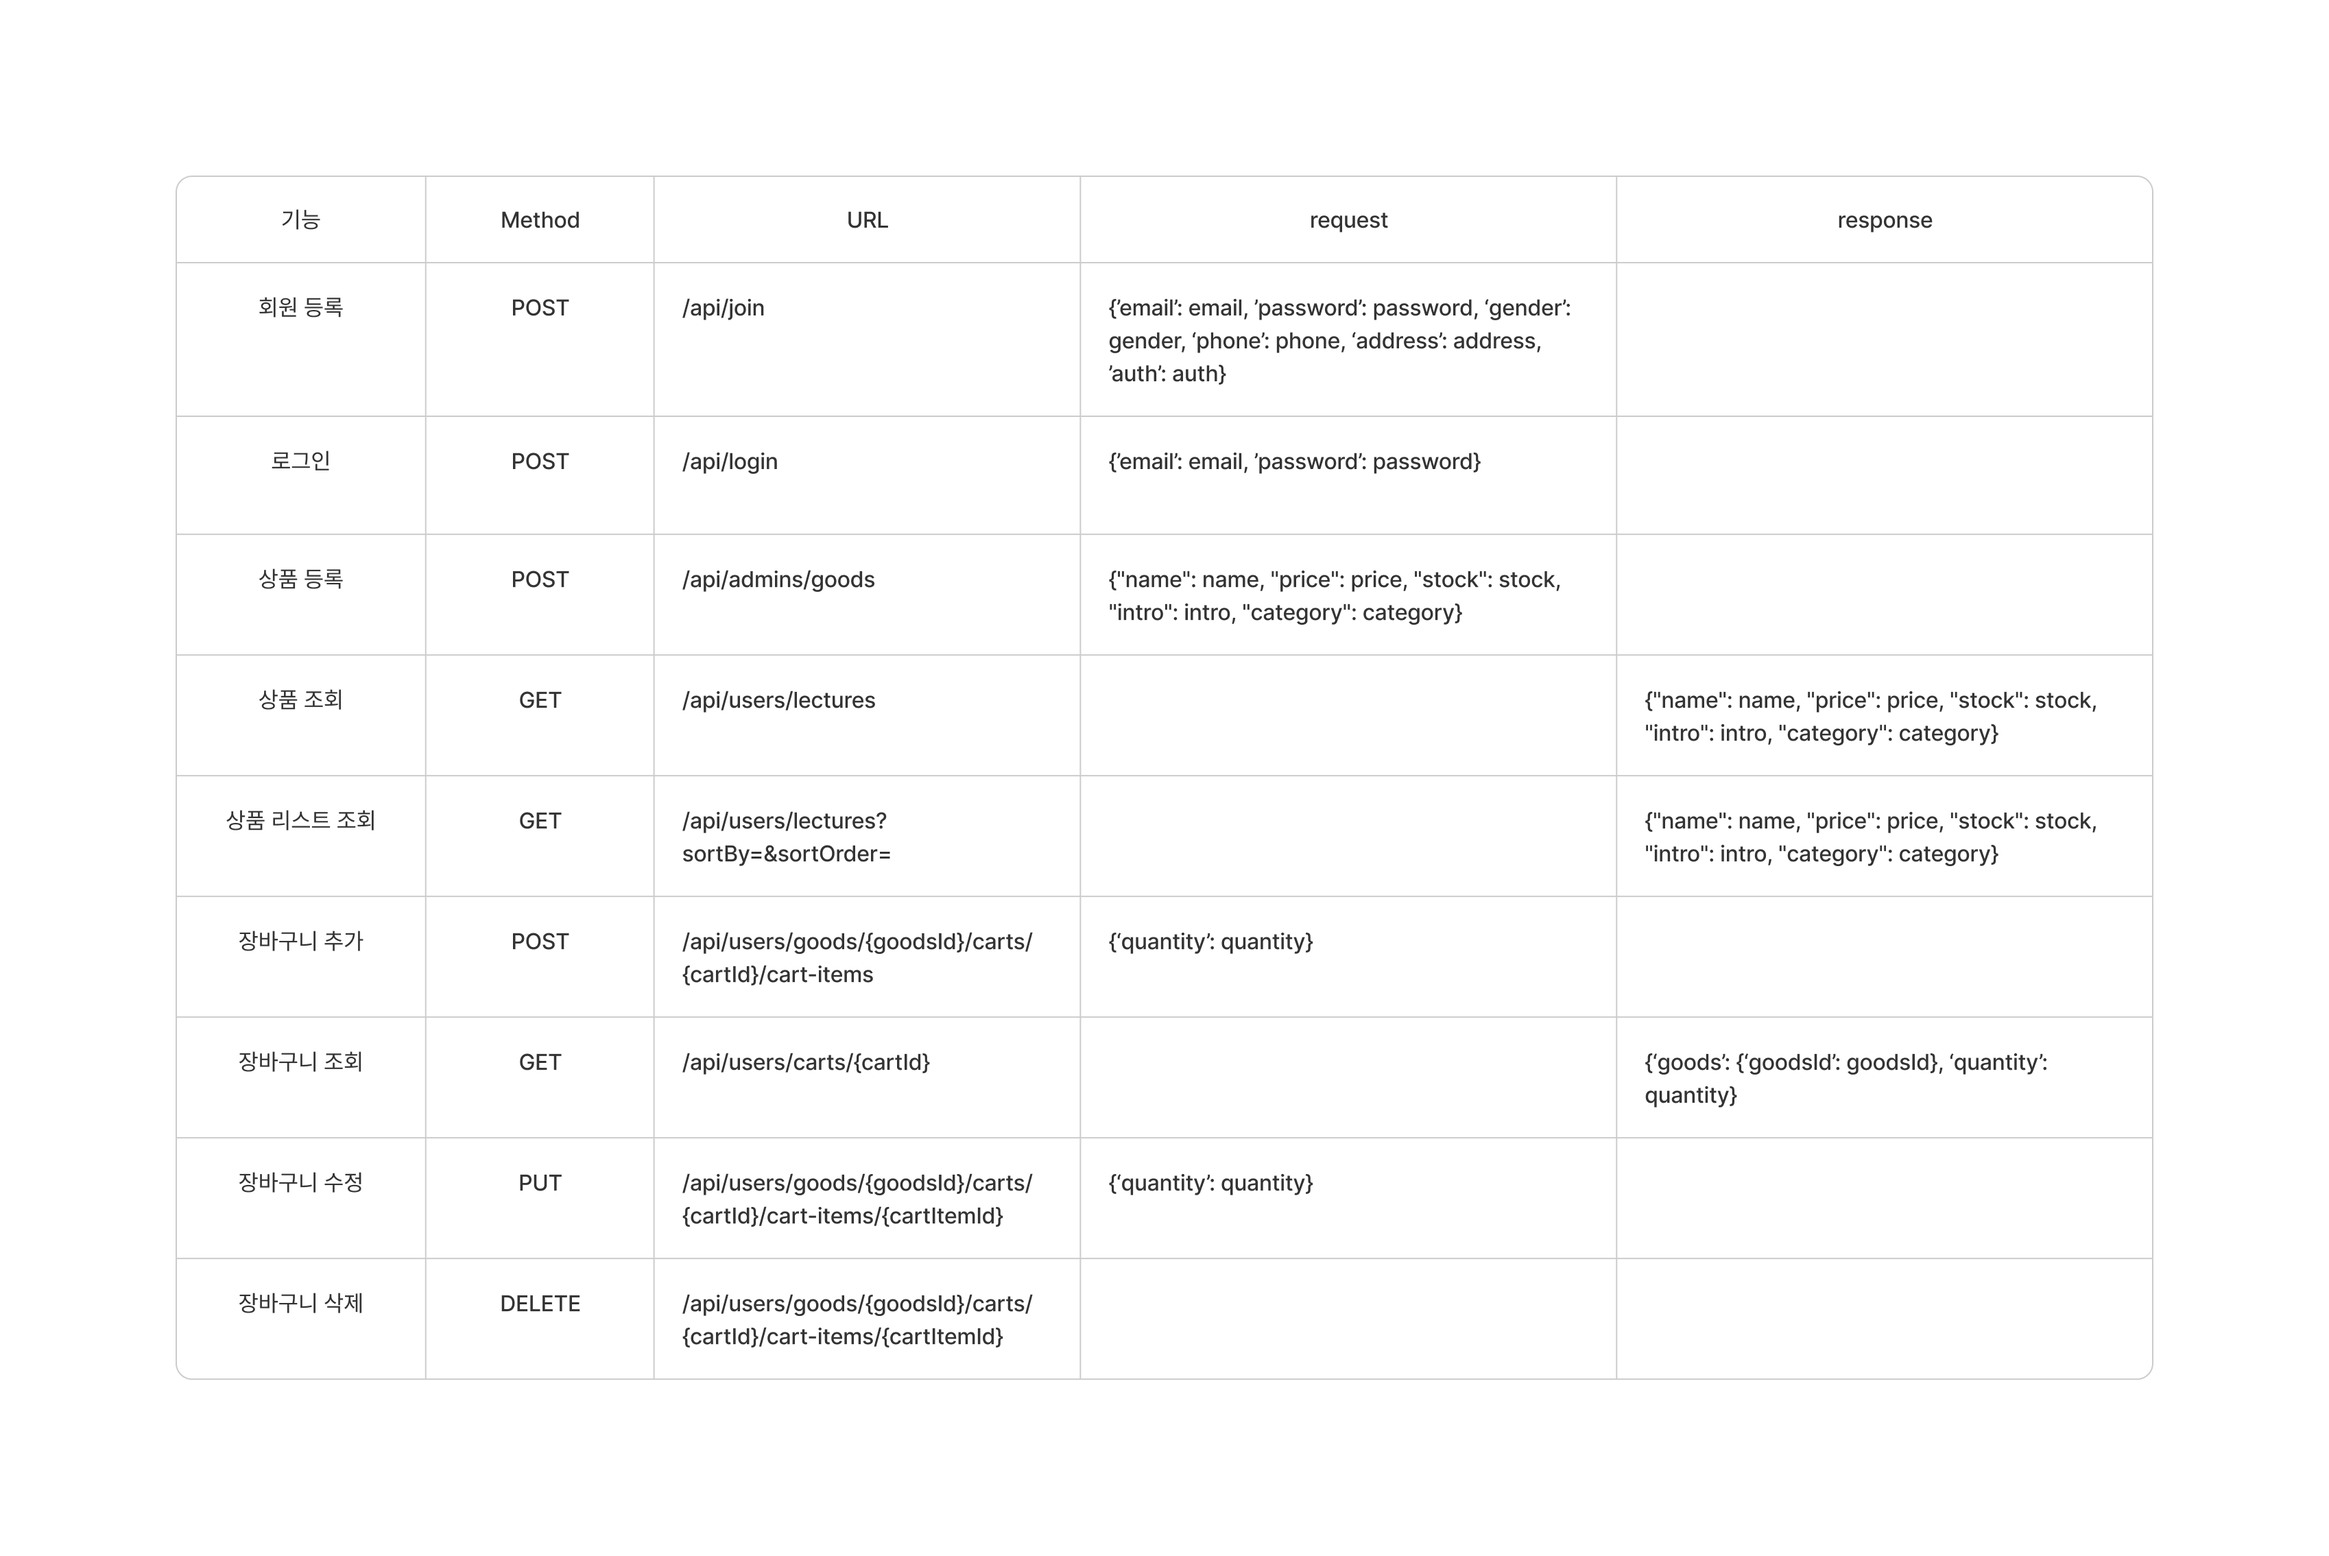
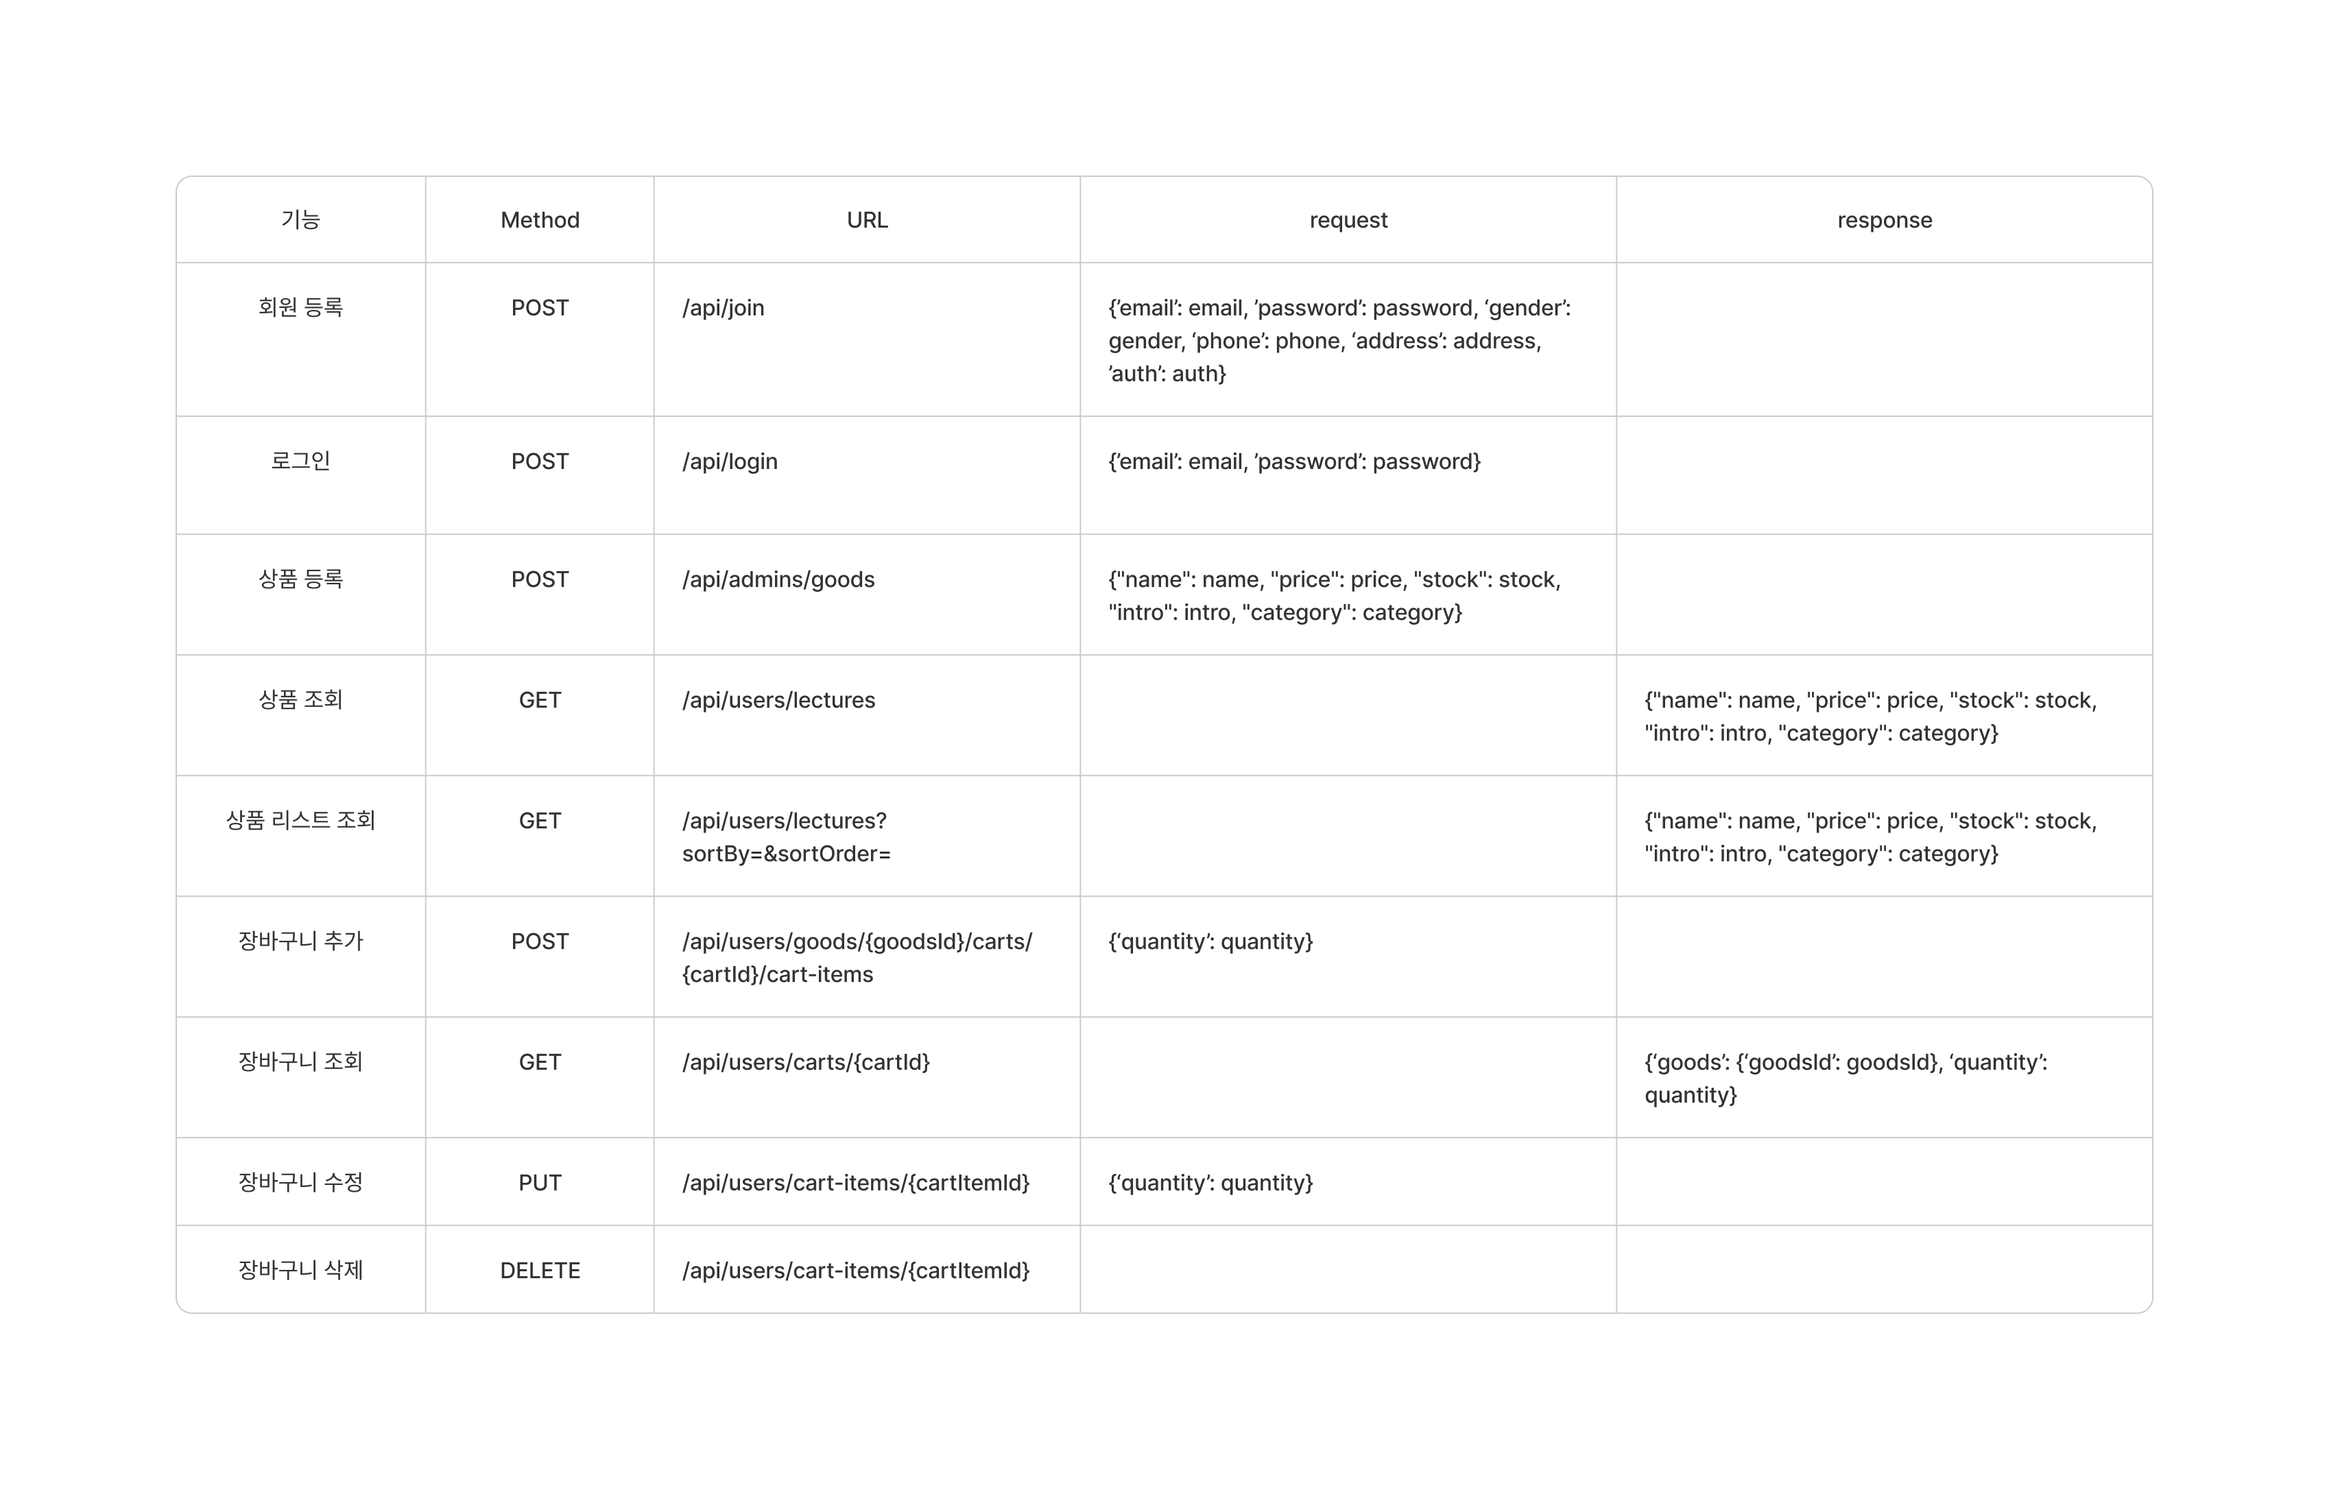
feat: 장바구니 수정

diff --git a/src/main/java/org/sparta/hanghae99lv5/service/CartItemService.java b/src/main/java/org/sparta/hanghae99lv5/service/CartItemService.java
@@ -19,11 +19,24 @@ public class CartItemService {
     private final CartItemRepository cartItemRepository;
     private final GoodsRepository goodsRepository;
     private final CartRepository cartRepository;
+
     @Transactional
     public void createCartItem(CartItemRequestDto requestDto, Long goodsId, Long cartsId) {
         Goods goods = goodsRepository.findById(goodsId).orElseThrow(() -> new IllegalArgumentException(ErrorMessage.EXIST_GOODS_ERROR_MESSAGE.getErrorMessage()));
         Cart cart = cartRepository.findById(cartsId).orElseThrow(() -> new IllegalArgumentException(ErrorMessage.EXIST_CART_ERROR_MESSAGE.getErrorMessage()));
         CartItem cartItem = new CartItem(requestDto,goods,cart);
         cartItemRepository.save(cartItem);
+    }
+
+    @Transactional
+    public void updateCartItem(CartItemRequestDto requestDto, Long cartItemId) {
+        CartItem cartItem = findCartItem(cartItemId);
+        cartItem.update(requestDto);
+    }
+
+    private CartItem findCartItem(Long id) {
+        return cartItemRepository.findById(id).orElseThrow(() ->
+                new IllegalArgumentException(ErrorMessage.EXIST_GOODS_ERROR_MESSAGE.getErrorMessage())
+        );
     }
 }

diff --git a/src/main/java/org/sparta/hanghae99lv5/controller/CartController.java b/src/main/java/org/sparta/hanghae99lv5/controller/CartController.java
@@ -21,4 +21,9 @@ public class CartController {
         return new ResponseEntity<>(SuccessMessage.INSERT_CART_SUCCESS_MESSAGE.getSuccessMessage(), HttpStatus.CREATED);
     }
 
+    @PutMapping("/users/cart-items/{cartItemId}")
+    public ResponseEntity<String> updateCartItem(@RequestBody CartItemRequestDto requestDto, @PathVariable Long cartItemId) {
+        cartItemService.updateCartItem(requestDto, cartItemId);
+        return new ResponseEntity<>(SuccessMessage.INSERT_CART_SUCCESS_MESSAGE.getSuccessMessage(), HttpStatus.CREATED);
+    }
 }

diff --git a/src/main/java/org/sparta/hanghae99lv5/entity/CartItem.java b/src/main/java/org/sparta/hanghae99lv5/entity/CartItem.java
@@ -29,4 +29,8 @@ public class CartItem {
         this.goods = goods;
         this.quantity = requestDto.getQuantity();
     }
+
+    public void update(CartItemRequestDto requestDto) {
+        this.quantity = requestDto.getQuantity();
+    }
 }
